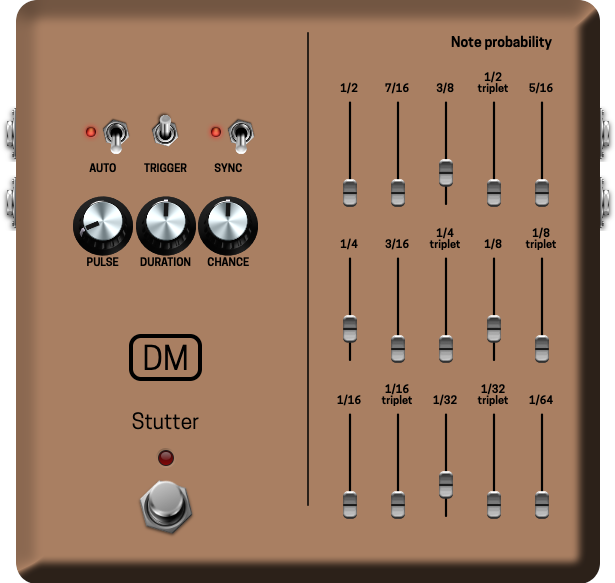
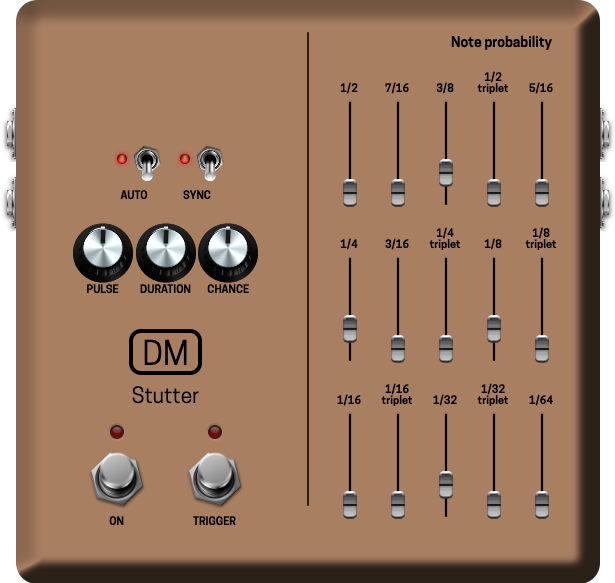
Add momentary trigger button

Changed region(s): [[0.0927, 0.1852, 0.4325, 0.5249], [0.1236, 0.5557, 0.4016, 0.9262]]

diff --git a/lv2/dm-Stutter.lv2/modgui/stylesheet-dm-stutter.css b/lv2/dm-Stutter.lv2/modgui/stylesheet-dm-stutter.css
@@ -28,13 +28,8 @@
 .mod-pedal-boxy{{{cns}}} #left-side {
     display: flex;
     flex-direction: column;
-    justify-content: center;
+    justify-content: flex-end;
     flex: 1;
-    margin-bottom: 40px;
-}
-
-.mod-pedal-boxy{{{cns}}} #left-side > #controls {
-    padding-bottom: 32px;
 }
 
 .mod-pedal-boxy{{{cns}}} hr {
@@ -70,13 +65,21 @@
     flex-wrap: wrap;
 }
 
+.mod-pedal-boxy{{{cns}}} #footswitches {
+    margin-top: 40px;
+    margin-bottom: 40px;
+    display: flex;
+    flex-direction: row;
+    gap: 32px;
+    flex: 1;
+    justify-content: center;
+}
 
 /* = PLUGIN'S AUTHOR
 ================================================ */
 .mod-pedal-boxy{{{cns}}} .mod-plugin-brand {
     text-align:center;
     text-transform:uppercase;
-    top:160px;
 }
 
 .mod-pedal-boxy{{{cns}}} .mod-plugin-brand h1 {
@@ -102,12 +105,14 @@
     font-family:"Questrial";
     font-size:21px;
     line-height:1;
+    margin: 0px;
 }
 
 
 /* = FOOTSWITCH
 ================================================ */
 .mod-pedal-boxy{{{cns}}} .mod-footswitch {
+    position: relative;
     background-image:url(/resources/pedals/footswitch.png{{{ns}}});
     background-position:top center !important;
     background-repeat:no-repeat;
@@ -115,11 +120,6 @@
     cursor:pointer;
     height:66px;
     width: 66px;
-    margin: auto;
-    margin-top: 32px;
-    position:absolute !important;
-    left: 50%;
-    transform: translateX(-50%);
 }
 .mod-pedal-boxy{{{cns}}} .mod-footswitch.on {
     background-position-y: bottom !important;
@@ -128,16 +128,32 @@
     background-image:url(/resources/pedals/red-light-off.png{{{ns}}});
     background-position-y: bottom;
     background-repeat:no-repeat;
-    background-size:32px 32px;
-    height:32px;
-    width:32px;
+    background-size:28px 28px;
+    height:28px;
+    width:28px;
     position: absolute;
-    top: -32px;
+    top: -28px;
     left: 50%;
     transform: translateX(-50%);
 }
 .mod-pedal-boxy{{{cns}}} .mod-footswitch.on > .mod-light {
     background-image:url(/resources/pedals/red-light-on.png{{{ns}}});
+}
+
+.mod-pedal-boxy{{{cns}}} .mod-footswitch > span.mod-knob-title {
+    bottom:-16px;
+    display:block;
+    font-size:11px;
+    font-weight:bold;
+    height:12px;
+    left: 50%;
+    transform: translateX(-50%);
+    line-height:1;
+    margin:0;
+    padding:0;
+    position:absolute;
+    text-transform:uppercase;
+    color: black;
 }
 
 
@@ -193,6 +209,7 @@
     display:inline-block;
     height:73px;
 }
+
 
 /* SLIDER
 ================================================ */

diff --git a/lv2/dm-Stutter.lv2/modgui/icon-dm-stutter.html b/lv2/dm-Stutter.lv2/modgui/icon-dm-stutter.html
@@ -9,7 +9,7 @@
         <div class="mod-control-group mod-steel clearfix">
           <div class="mod-knob toggle">
             <div
-              class="mod-toggle-image mod-port"
+              class="mod-toggle-image mod-port on"
               mod-role="input-control-port"
               mod-port-symbol="auto"
             >
@@ -19,15 +19,7 @@
           </div>
           <div class="mod-knob toggle">
             <div
-              class="mod-toggle-image center mod-port"
-              mod-role="input-control-port"
-              mod-port-symbol="trigger"
-            ></div>
-            <span class="mod-knob-title">Trigger</span>
-          </div>
-          <div class="mod-knob toggle">
-            <div
-              class="mod-toggle-image mod-port"
+              class="mod-toggle-image mod-port on"
               mod-role="input-control-port"
               mod-port-symbol="sync"
             >
@@ -40,12 +32,12 @@
         <div class="mod-control-group mod-steel clearfix">
           <div class="mod-knob">
             <div
-              class="mod-knob-image hide"
+              class="mod-knob-image"
               mod-role="input-control-port"
               mod-port-symbol="tempo_factor"
             ></div>
             <div
-              class="mod-knob-image"
+              class="mod-knob-image hide"
               mod-role="input-control-port"
               mod-port-symbol="pulse"
             ></div>
@@ -73,8 +65,15 @@
       <div id="brand">
         <div class="mod-plugin-brand"><h1>{{brand}}</h1></div>
         <div class="mod-plugin-name"><h1>{{label}}</h1></div>
-        <div class="mod-footswitch" mod-role="input-control-port" mod-port-symbol="on">
-          <div class="mod-light"></div>
+        <div id="footswitches">
+          <div class="mod-footswitch" mod-role="input-control-port" mod-port-symbol="on">
+            <div class="mod-light"></div>
+            <span class="mod-knob-title">On</span>
+          </div>
+          <div class="mod-footswitch" mod-role="input-control-port" mod-port-symbol="trigger">
+            <div class="mod-light"></div>
+            <span class="mod-knob-title">Trigger</span>
+          </div>
         </div>
       </div>
     </div>

diff --git a/nih-plug/src/editor.rs b/nih-plug/src/editor.rs
@@ -57,21 +57,21 @@ pub(crate) fn create(
               |param_ptr, val| ParamChangeEvent::SetParam(param_ptr, val),
             );
 
-            ParamCheckbox::new(
-              cx,
-              params.auto.name(),
-              UiData::params,
-              params.auto.as_ptr(),
-              |params| &params.auto,
-              |param_ptr, val| ParamChangeEvent::SetParam(param_ptr, val),
-            );
-
             ParamTrigger::new(
               cx,
               params.trigger.name(),
               UiData::params,
               params.trigger.as_ptr(),
               |params| &params.trigger,
+              |param_ptr, val| ParamChangeEvent::SetParam(param_ptr, val),
+            );
+            
+            ParamCheckbox::new(
+              cx,
+              params.auto.name(),
+              UiData::params,
+              params.auto.as_ptr(),
+              |params| &params.auto,
               |param_ptr, val| ParamChangeEvent::SetParam(param_ptr, val),
             );
 
@@ -84,7 +84,7 @@ pub(crate) fn create(
               |param_ptr, val| ParamChangeEvent::SetParam(param_ptr, val),
             );
           })
-          .size(Auto).col_between(Pixels(16.0));
+          .size(Auto).col_between(Pixels(16.0)).child_bottom(Pixels(8.0));
 
           HStack::new(cx, |cx| {
             // show when sync is on
@@ -152,6 +152,7 @@ pub(crate) fn create(
           })
           .size(Auto);
         })
+        .height(Auto)
         .row_between(Pixels(8.0))
         .child_space(Stretch(1.0))
         .top(Stretch(1.0));

diff --git a/lv2/src/lib.rs b/lv2/src/lib.rs
@@ -19,8 +19,8 @@ pub struct Features<'a> {
 struct Ports {
   control: InputPort<AtomPort>,
   on: InputPort<Control>,
-  auto: InputPort<Control>,
   trigger: InputPort<Control>,
+  auto: InputPort<Control>,
   sync: InputPort<Control>,
   pulse: InputPort<Control>,
   tempo_factor: InputPort<Control>,
@@ -126,8 +126,8 @@ impl Plugin for DmStutter {
   // iterates over.
   fn run(&mut self, ports: &mut Ports, _features: &mut (), _sample_count: u32) {
     let on = *ports.on == 1.;
-    let auto = *ports.auto == 1.;
     let trigger = *ports.trigger == 1.;
+    let auto = *ports.auto == 1.;
 
     let pulse = if *ports.sync == 1. {
       self.set_bpm(ports);
@@ -168,11 +168,12 @@ impl Plugin for DmStutter {
       (*output_left, *output_right) = self.stutter.process(
         (*input_left, *input_right),
         on,
-        auto,
         trigger,
+        auto,
         pulse,
         duration,
         chance,
+        true
       );
     }
   }

diff --git a/nih-plug/src/lib.rs b/nih-plug/src/lib.rs
@@ -83,8 +83,8 @@ impl Plugin for DmStutter {
     context: &mut impl ProcessContext<Self>,
   ) -> ProcessStatus {
     let on = self.params.on.value();
-    let auto = self.params.auto.value();
     let trigger = self.params.trigger.value();
+    let auto = self.params.auto.value();
     let pulse = if self.params.sync.value() {
       let bpm = context.transport().tempo.unwrap_or(120.) as f32;
       self.get_synced_pulse_time(bpm)
@@ -120,11 +120,12 @@ impl Plugin for DmStutter {
       (*left_channel, *right_channel) = self.stutter.process(
         (*left_channel, *right_channel),
         on,
-        auto,
         trigger,
+        auto,
         pulse,
         duration,
         chance,
+        false
       );
     });
     ProcessStatus::Normal

diff --git a/nih-plug/src/stutter_parameters.rs b/nih-plug/src/stutter_parameters.rs
@@ -17,11 +17,11 @@ pub struct StutterParameters {
   #[id = "on"]
   pub on: BoolParam,
 
-  #[id = "auto"]
-  pub auto: BoolParam,
-
   #[id = "trigger"]
   pub trigger: BoolParam,
+
+  #[id = "auto"]
+  pub auto: BoolParam,
 
   #[id = "sync"]
   pub sync: BoolParam,
@@ -91,9 +91,9 @@ impl Default for StutterParameters {
 
       on: BoolParam::new("On", false),
 
-      auto: BoolParam::new("Auto", true),
-
       trigger: BoolParam::new("Trigger", false),
+
+      auto: BoolParam::new("Auto", true),
 
       sync: BoolParam::new("Sync", true),
 

diff --git a/stutter/src/lib.rs b/stutter/src/lib.rs
@@ -87,13 +87,14 @@ impl Stutter {
     &mut self,
     input: (f32, f32),
     on: bool,
-    auto_trigger: bool,
     manual_trigger: bool,
+    auto_trigger: bool,
     pulse: f32,
     duration: f32,
     chance: f32,
+    is_momentary_trigger: bool,
   ) -> (f32, f32) {
-    let manual_trigger = self.manual_trigger.process(manual_trigger);
+    let manual_trigger = self.manual_trigger.process(manual_trigger, is_momentary_trigger);
     let reset = self.toggle_trigger.process(on) || manual_trigger;
     if reset {
       self.phasor.reset();

diff --git a/nih-plug/src/editor/components/param_knob.rs b/nih-plug/src/editor/components/param_knob.rs
@@ -59,9 +59,7 @@ impl ParamKnob {
       Knob::new(
         cx,
         lens.map(move |p| params_to_param(p).default_normalized_value()),
-        lens.map(move |p| {
-          params_to_param(p).preview_normalized(params_to_param(p).modulated_plain_value())
-        }),
+        lens.map(move |p| params_to_param(p).modulated_normalized_value()),
         false,
       )
       .on_changing(move |cx, val| {

diff --git a/stutter/src/manual_trigger.rs b/stutter/src/manual_trigger.rs
@@ -7,8 +7,12 @@ impl ManualTrigger {
     Self { prev: false }
   }
 
-  pub fn process(&mut self, next: bool) -> bool {
-    let output = next != self.prev;
+  pub fn process(&mut self, next: bool, is_momentary_trigger: bool) -> bool {
+    let output = if is_momentary_trigger {
+      next && !self.prev
+    } else { 
+      next != self.prev
+    };
     self.prev = next;
     output
   }

diff --git a/nih-plug/src/editor/components/param_trigger.rs b/nih-plug/src/editor/components/param_trigger.rs
@@ -44,12 +44,12 @@ impl ParamTrigger {
         },
         |cx| Element::new(cx),
       )
-      .size(Pixels(30.0))
-      .border_radius(Pixels(30.0));
+      .size(Pixels(29.0))
+      .border_radius(Pixels(29.0));
     })
     .size(Auto)
     .child_left(Stretch(1.0))
     .child_right(Stretch(1.0))
-    .row_between(Pixels(10.0))
+    .row_between(Pixels(9.0))
   }
 }
